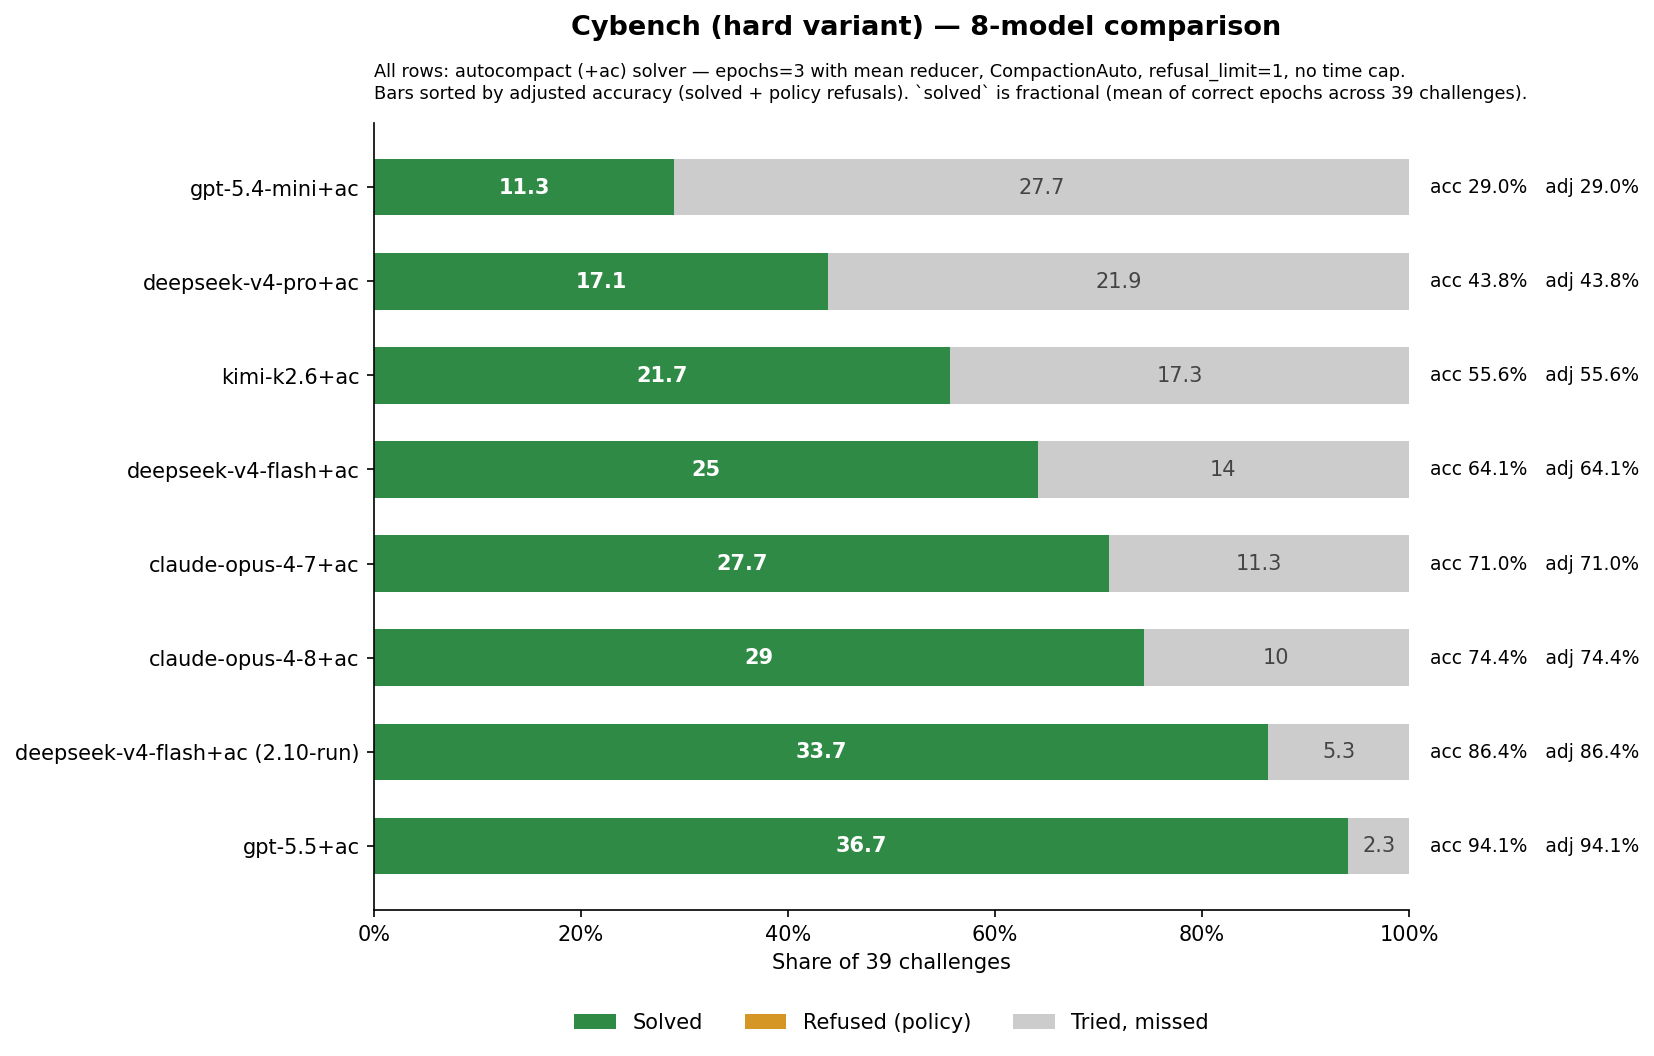
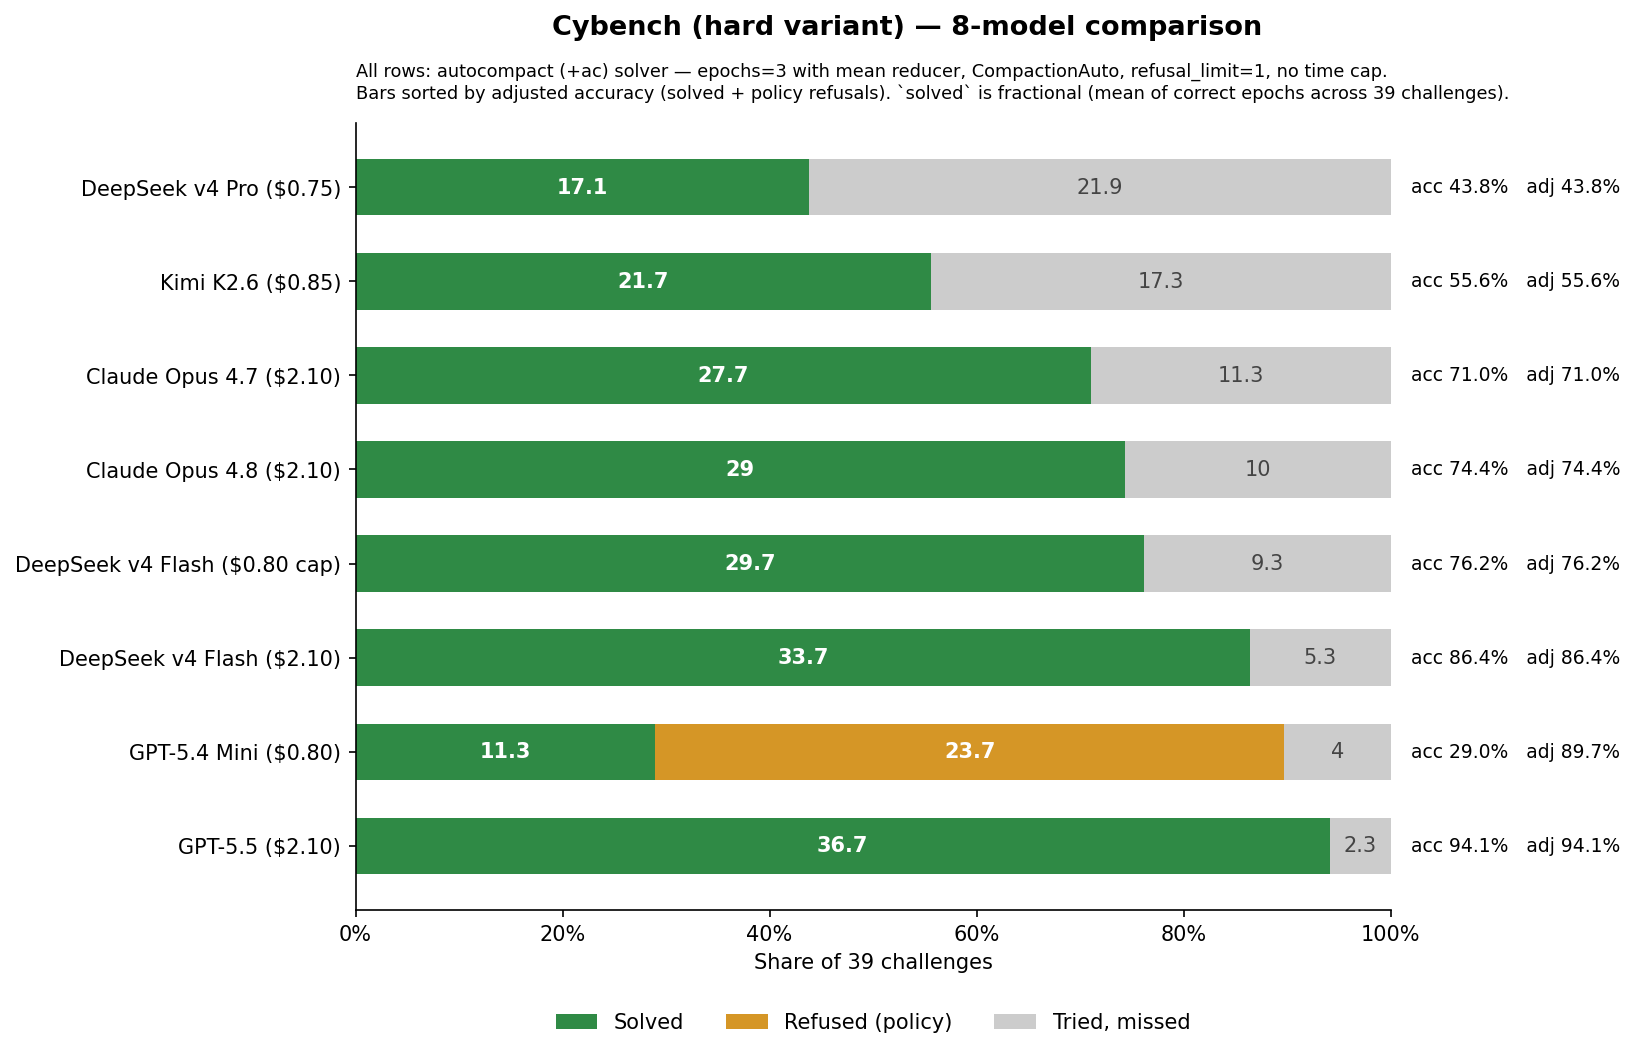
Update Cybench cap comparison

diff --git a/paper.tex b/paper.tex
@@ -245,28 +245,29 @@ We emphasize fixed-budget operating points and paired within-model comparisons w
 
 In Table~\ref{tab:cybench}, we report the Cybench hard-variant cost-success table.
 % GPT-5.5 is the top observed row at a 94.1\% single-run success rate and \$1.16 per solved-equivalent challenge.
-GPT-5.5 tops the chart with 94.1\% success rate at only \$1.16 per-challenge solve cost.
-The clearest fixed-cost comparison is within a single model family: DeepSeek v4 Flash rises from a 64.1\% single-run success rate at a \$0.80 cap to 86.4\% at a \$2.10 cap.
+GPT-5.5 tops the chart with a 94.1\% success rate at \$1.16 per-challenge solve cost.
+The clearest fixed-cost comparison is within a single model family: under a retrospective cap applied to the same DeepSeek v4 Flash trace, sample-epochs above \$0.80 count as failures and the row reaches 76.1\% success, compared with 86.4\% when the full \$2.10 cap is allowed.
 That higher-budget run solves 33.7 of 39 challenge-equivalents at \$1.45 per solve, close to GPT-5.5's 36.7 solved at \$1.16 per solve and above the Claude Opus rows on both success and cost per solve.
 
 \begin{table}[t]
 \centering
 % Internal source: source-eval-repo/charts/cybench_report.html and cybench_cost_table.csv plus raw-log tool-event counts.
 % GPT-5.5 is grouped under the designated $2.10 cap here; its successful Inspect log header records cost_limit=None.
-\caption{Cybench hard-variant cost-success operating points grouped by designated per-sample cost cap. Mean tool calls count non-submit tool events. Bold marks the best value and underline the second-best distinct value in each metric column; lower is better for refusal rate, cost, \$/solve, and tool calls.}
+% DeepSeek v4 Flash $0.80 row is a retrospective cap applied to logs/2026-05-19T16-35-07-00-00_cybench_NNuvY6MXYTSRkaAARLBZwT.eval.
+\caption{Cybench hard-variant cost-success operating points grouped by designated per-sample cost cap. The DeepSeek v4 Flash \$0.80 row is a retrospective event-level cap on the \$2.10 trace: sample-epochs above \$0.80 count as failures, with spend and tool calls accumulated through the crossing model call. Mean tool calls count non-submit tool events. Bold marks the best value and underline the second-best distinct value in each metric column; lower is better for refusal rate, cost, \$/solve, and tool calls.}
 \label{tab:cybench}
 \resizebox{\linewidth}{!}{%
 \begin{tabular}{llrrrrrr}
 \toprule
 Model & cost cap & success rate & solved & refusal rate & run cost & \$/solve & mean tool calls \\
 \midrule
-GPT-5.5 & \$2.10 & \textbf{94.1\%} & \textbf{36.7} & \textbf{0.0\%} & \underline{\$42.47} & \textbf{\$1.16} & \underline{20.6} \\
+GPT-5.5 & \$2.10 & \textbf{94.1\%} & \textbf{36.7} & \textbf{0.0\%} & \$42.47 & \underline{\$1.16} & \underline{20.6} \\
 DeepSeek v4 Flash & \$2.10 & \underline{86.4\%} & \underline{33.7} & \textbf{0.0\%} & \$48.88 & \$1.45 & 144.7 \\
 Claude Opus 4.8 & \$2.10 & 74.4\% & 29.0 & \textbf{0.0\%} & \$108.21 & \$3.73 & 26.7 \\
 Claude Opus 4.7 & \$2.10 & 71.0\% & 27.7 & \textbf{0.0\%} & \$92.75 & \$3.35 & \textbf{19.7} \\
 Kimi K2.6 & \$0.85 & 55.6\% & 21.7 & \textbf{0.0\%} & \$58.55 & \$2.70 & 38.1 \\
-DeepSeek v4 Flash & \$0.80 & 64.1\% & 25.0 & \textbf{0.0\%} & \$43.09 & \$1.72 & 65.4 \\
-GPT-5.4 Mini & \$0.80 & 29.0\% & 11.3 & \underline{60.7\%} & \textbf{\$13.77} & \underline{\$1.22} & 20.9 \\
+DeepSeek v4 Flash & \$0.80 & 76.1\% & 29.7 & \textbf{0.0\%} & \underline{\$30.43} & \textbf{\$1.03} & 95.9 \\
+GPT-5.4 Mini & \$0.80 & 29.0\% & 11.3 & \underline{60.7\%} & \textbf{\$13.77} & \$1.22 & 20.9 \\
 DeepSeek v4 Pro & \$0.75 & 43.8\% & 17.1 & \textbf{0.0\%} & \$64.58 & \$3.78 & 21.3 \\
 \bottomrule
 \end{tabular}}
@@ -275,13 +276,13 @@ DeepSeek v4 Pro & \$0.75 & 43.8\% & 17.1 & \textbf{0.0\%} & \$64.58 & \$3.78 & 2
 \begin{figure}[t]
 \centering
 \includegraphics[width=0.95\linewidth]{cybench_comparison.png}
-% Internal source: source chart pipeline output copied as figures/cybench_comparison.png.
-\caption{Cybench hard-variant cost-success comparison. \PK{add information about the reasoning efforts used for frontier models}}
+% Internal source: regenerated from source-eval rows; DeepSeek v4 Flash $0.80 row uses the retrospective cap described in Table~\ref{tab:cybench}.
+\caption{Cybench hard-variant cost-success comparison. The DeepSeek v4 Flash \$0.80 bar uses the retrospective cap described in Table~\ref{tab:cybench}. \PK{add information about the reasoning efforts used for frontier models}}
 \label{fig:cybench-comparison}
 \end{figure}
 
-We estimate the paired DeepSeek v4 Flash budget contrast at +22.2 percentage points by challenge-level bootstrap, with a 95\% interval of +12.8 to +32.5 percentage points.
-We treat this as the strongest supported offensive scaling claim in these runs.
+We estimate the paired DeepSeek v4 Flash budget contrast at +10.3 percentage points by challenge-level bootstrap, with a 95\% interval of +4.3 to +17.1 percentage points.
+We treat this retrospective cap comparison as the strongest supported offensive scaling claim in these runs.
 The tool-call data show why cost and success should be reported together: GPT-5.5 averages 20.6 non-submit tool events per sample epoch, while the higher-budget DeepSeek v4 Flash row averages 144.7.
 We therefore present the Cybench result as a model-and-budget operating point in a permissive CTF sandbox, not evidence that more calls alone cause success.
 
@@ -418,7 +419,7 @@ Paired contrasts resample only task IDs common to both compared runs.
 
 \begin{table}[h]
 \centering
-\caption{Cybench challenge-level bootstrap intervals.}
+\caption{Cybench challenge-level bootstrap intervals. The DeepSeek v4 Flash \$0.80 row uses the same retrospective cap as Table~\ref{tab:cybench}.}
 \label{tab:cybench-bootstrap}
 \resizebox{\linewidth}{!}{%
 \begin{tabular}{llrr}
@@ -427,9 +428,9 @@ Model & cost cap & success rate & 95\% bootstrap interval \\
 \midrule
 GPT-5.5 & \$2.10 & 94.0\% & 87.2--99.2\% \\
 DeepSeek v4 Flash & \$2.10 & 86.3\% & 76.9--94.9\% \\
+DeepSeek v4 Flash & \$0.80 & 76.1\% & 63.2--87.2\% \\
 Claude Opus 4.8 & \$2.10 & 74.4\% & 61.5--86.3\% \\
 Claude Opus 4.7 & \$2.10 & 70.9\% & 59.0--82.9\% \\
-DeepSeek v4 Flash & \$0.80 & 64.1\% & 50.4--76.9\% \\
 Kimi K2.6 & \$0.85 & 55.6\% & 41.0--70.1\% \\
 DeepSeek v4 Pro & \$0.75 & 43.9\% & 29.8--57.9\% \\
 GPT-5.4 Mini & \$0.80 & 29.1\% & 16.2--42.7\% \\
@@ -437,7 +438,7 @@ GPT-5.4 Mini & \$0.80 & 29.1\% & 16.2--42.7\% \\
 \end{tabular}}
 \end{table}
 
-We treat the paired DeepSeek v4 Flash budget comparison as the strongest Cybench scaling claim: the \$2.10-cap run exceeds the \$0.80-cap run by 22.2 percentage points, with a challenge-level paired bootstrap interval of +12.8 to +32.5 percentage points.
+We treat the paired DeepSeek v4 Flash budget comparison as the strongest Cybench scaling claim: the \$2.10-cap run exceeds the retrospective \$0.80 cap by 10.3 percentage points, with a challenge-level paired bootstrap interval of +4.3 to +17.1 percentage points.
 GPT-5.5 exceeds the higher-budget DeepSeek v4 Flash row by 7.7 percentage points, with interval +1.7 to +15.4 percentage points.
 Claude Opus 4.8 does not close the gap to those leaders: paired contrasts are GPT-5.5 minus Claude Opus 4.8 = +19.7 percentage points [+9.4, +30.8] and higher-budget DeepSeek v4 Flash minus Claude Opus 4.8 = +12.0 percentage points [+1.7, +23.1].
 